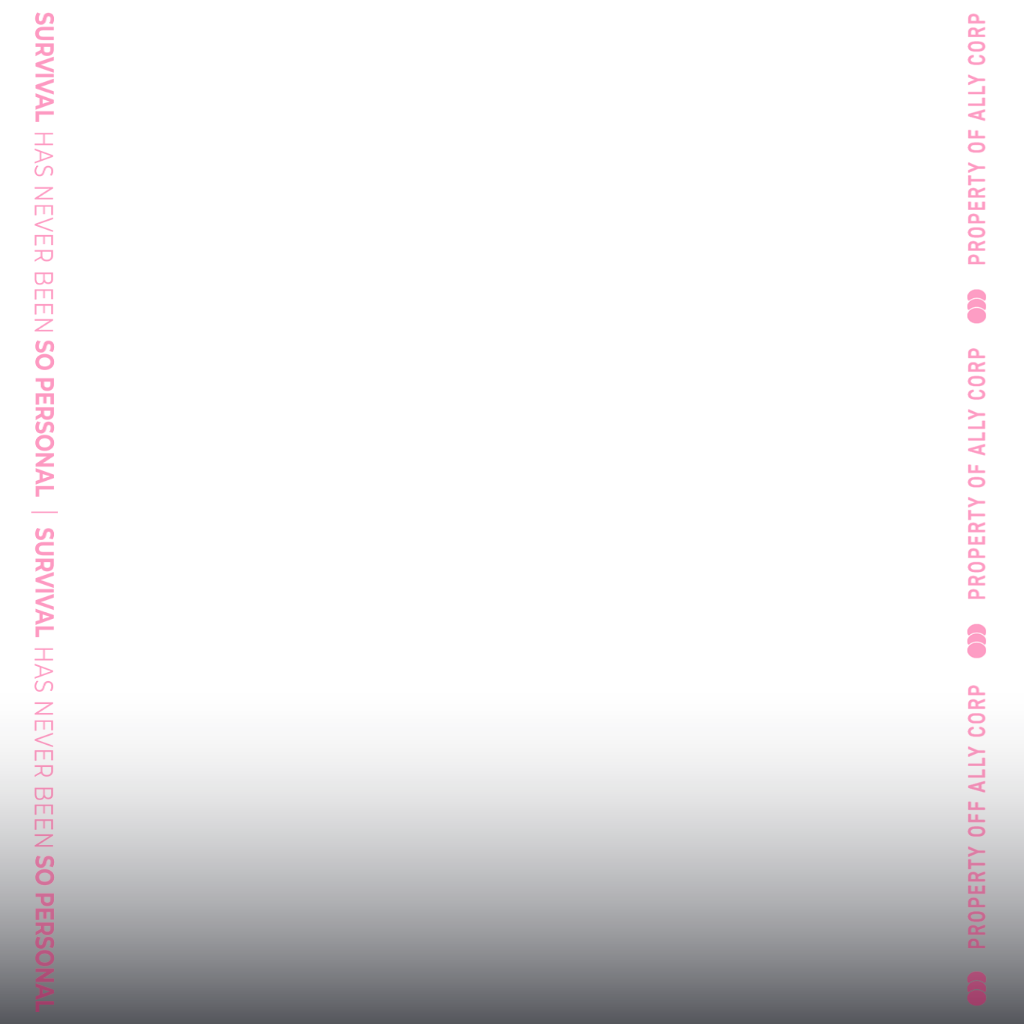
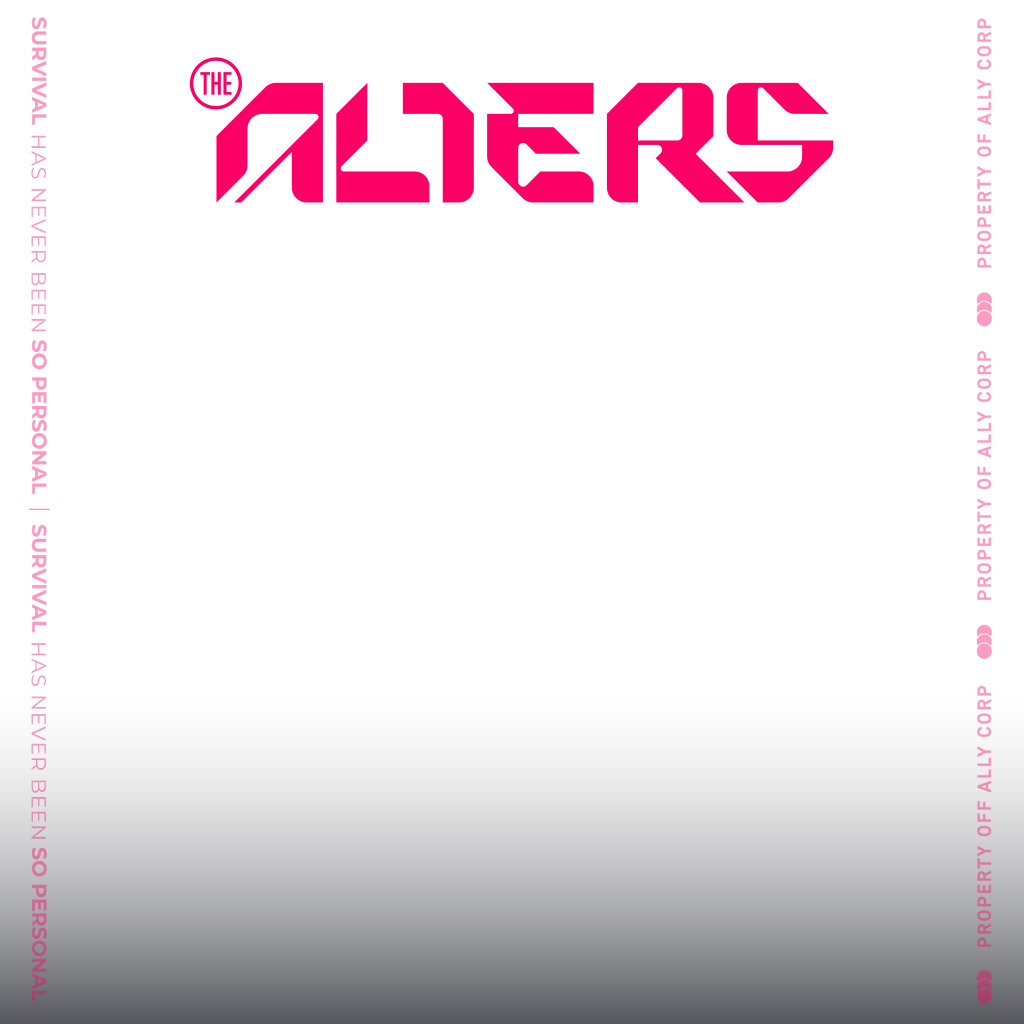
add proper branding and better handling for custom images

Changed region(s): [[0.1875, 0.0625, 0.8125, 0.2188], [0.9375, 0.0, 0.9688, 1.0], [0.0312, 0.0, 0.0625, 1.0]]

diff --git a/webui/avatar_api.py b/webui/avatar_api.py
@@ -6,7 +6,7 @@ from io import BytesIO
 from pathlib import Path
 import fastface as ff
 import numpy as np
-from PIL import Image
+from PIL import Image, ImageOps
 import webuiapi
 from fastapi import FastAPI, File, Request, Response, UploadFile, HTTPException
 
@@ -103,7 +103,6 @@ class GenerateAvatarTypes(str, Enum):
 
 @app.post("/generate/{avatar_type}", responses={200: {"content": {"image/png": {}}}}, response_class=Response)
 async def generate(avatar_type: GenerateAvatarTypes, request: Request, file: UploadFile = File(...)):
-    posthog.capture(request.client.host, '$pageview', {'$current_url': str(request.url)})
     start = time.time()
     try:
         face_file = assets_path.joinpath(f"{avatar_type.value}.png")
@@ -128,6 +127,7 @@ async def generate(avatar_type: GenerateAvatarTypes, request: Request, file: Upl
                     "avatar_type": avatar_type.value,
                     "result_size": len(content),
                     "processing_time": time.time() - start,
+                    "$current_url": str(request.url),
                 }
             )
     except Exception as e:
@@ -136,6 +136,7 @@ async def generate(avatar_type: GenerateAvatarTypes, request: Request, file: Upl
                 "error_str": str(e),
                 "traceback_str": traceback.format_exc(),
                 "processing_time": time.time() - start,
+                "$current_url": str(request.url),
             }
         )
         raise
@@ -148,34 +149,34 @@ class FinalizeAvatarTypes(str, Enum):
 
 @app.post("/finalize/{avatar_type}", responses={200: {"content": {"image/png": {}}}}, response_class=Response)
 async def finalize(avatar_type: FinalizeAvatarTypes, request: Request, file: UploadFile = File(...)):
-    posthog.capture(request.client.host, '$pageview', {'$current_url': str(request.url)})
     start = time.time()
     try:
         background = Image.open(assets_path.joinpath("space_suit_overlay_back.png"))
         foreground = Image.open(assets_path.joinpath("space_suit_overlay_front.png"))
         if avatar_type.value == "me":
             result = Image.open(file.file).convert('RGB')
-            mask_file = assets_path.joinpath("me_mask.png")
-            mask = Image.open(mask_file).convert('L')
-            preds = fd_model.predict(np.array(result), det_threshold=.8, iou_threshold=.4)
+            result.thumbnail((1200, 1200), Image.Resampling.LANCZOS)
+            result = ImageOps.expand(result, border=20, fill=0)
+
+            try:
+                preds = fd_model.predict(np.array(result), det_threshold=.6, iou_threshold=.4)
+            except RuntimeError:
+                raise HTTPException(status_code=422, detail="Incorrect image for prediction")
+
             face = next(iter(sorted(
                 [{'bbox': bbox, 'score': pred['scores'][i]} for pred in preds for i, bbox in enumerate(pred['boxes'])],
                 key=lambda item: item["score"],
+                reverse=True,
             )), None)
             if face is None:
-                raise HTTPException(status_code=429, detail="No face found in the uploaded image!")
+                raise HTTPException(status_code=422, detail="No face found in the uploaded image!")
             result = result.crop(face['bbox']).resize((300, 400))
-            result.putalpha(mask)
-            background.paste(result, (370, 200))
+            background.paste(result, (360, 250))
             result = Image.alpha_composite(background, foreground)
         else:
-            mask_file = assets_path.joinpath(f"{avatar_type.value}_mask_suited.png")
-            if not mask_file.exists():
-                raise HTTPException(status_code=404, detail=f"Avatar {avatar_type.value} not found")
-            mask = Image.open(mask_file).convert('L')
             request_file = Image.open(file.file).convert('RGB')
-            request_file.putalpha(mask)
-            result = Image.alpha_composite(background, Image.alpha_composite(request_file, foreground))
+            background.paste(request_file, (0, 0))
+            result = Image.alpha_composite(background, foreground)
 
         result_bytes = BytesIO()
         result.save(result_bytes, "PNG")
@@ -192,6 +193,7 @@ async def finalize(avatar_type: FinalizeAvatarTypes, request: Request, file: Upl
                     "avatar_type": avatar_type.value,
                     "result_size": len(content),
                     "processing_time": time.time() - start,
+                    "$current_url": str(request.url),
                 }
             )
     except Exception as e:
@@ -200,6 +202,7 @@ async def finalize(avatar_type: FinalizeAvatarTypes, request: Request, file: Upl
                 "error_str": str(e),
                 "traceback_str": traceback.format_exc(),
                 "processing_time": time.time() - start,
+                "$current_url": str(request.url),
             }
         )
         raise
